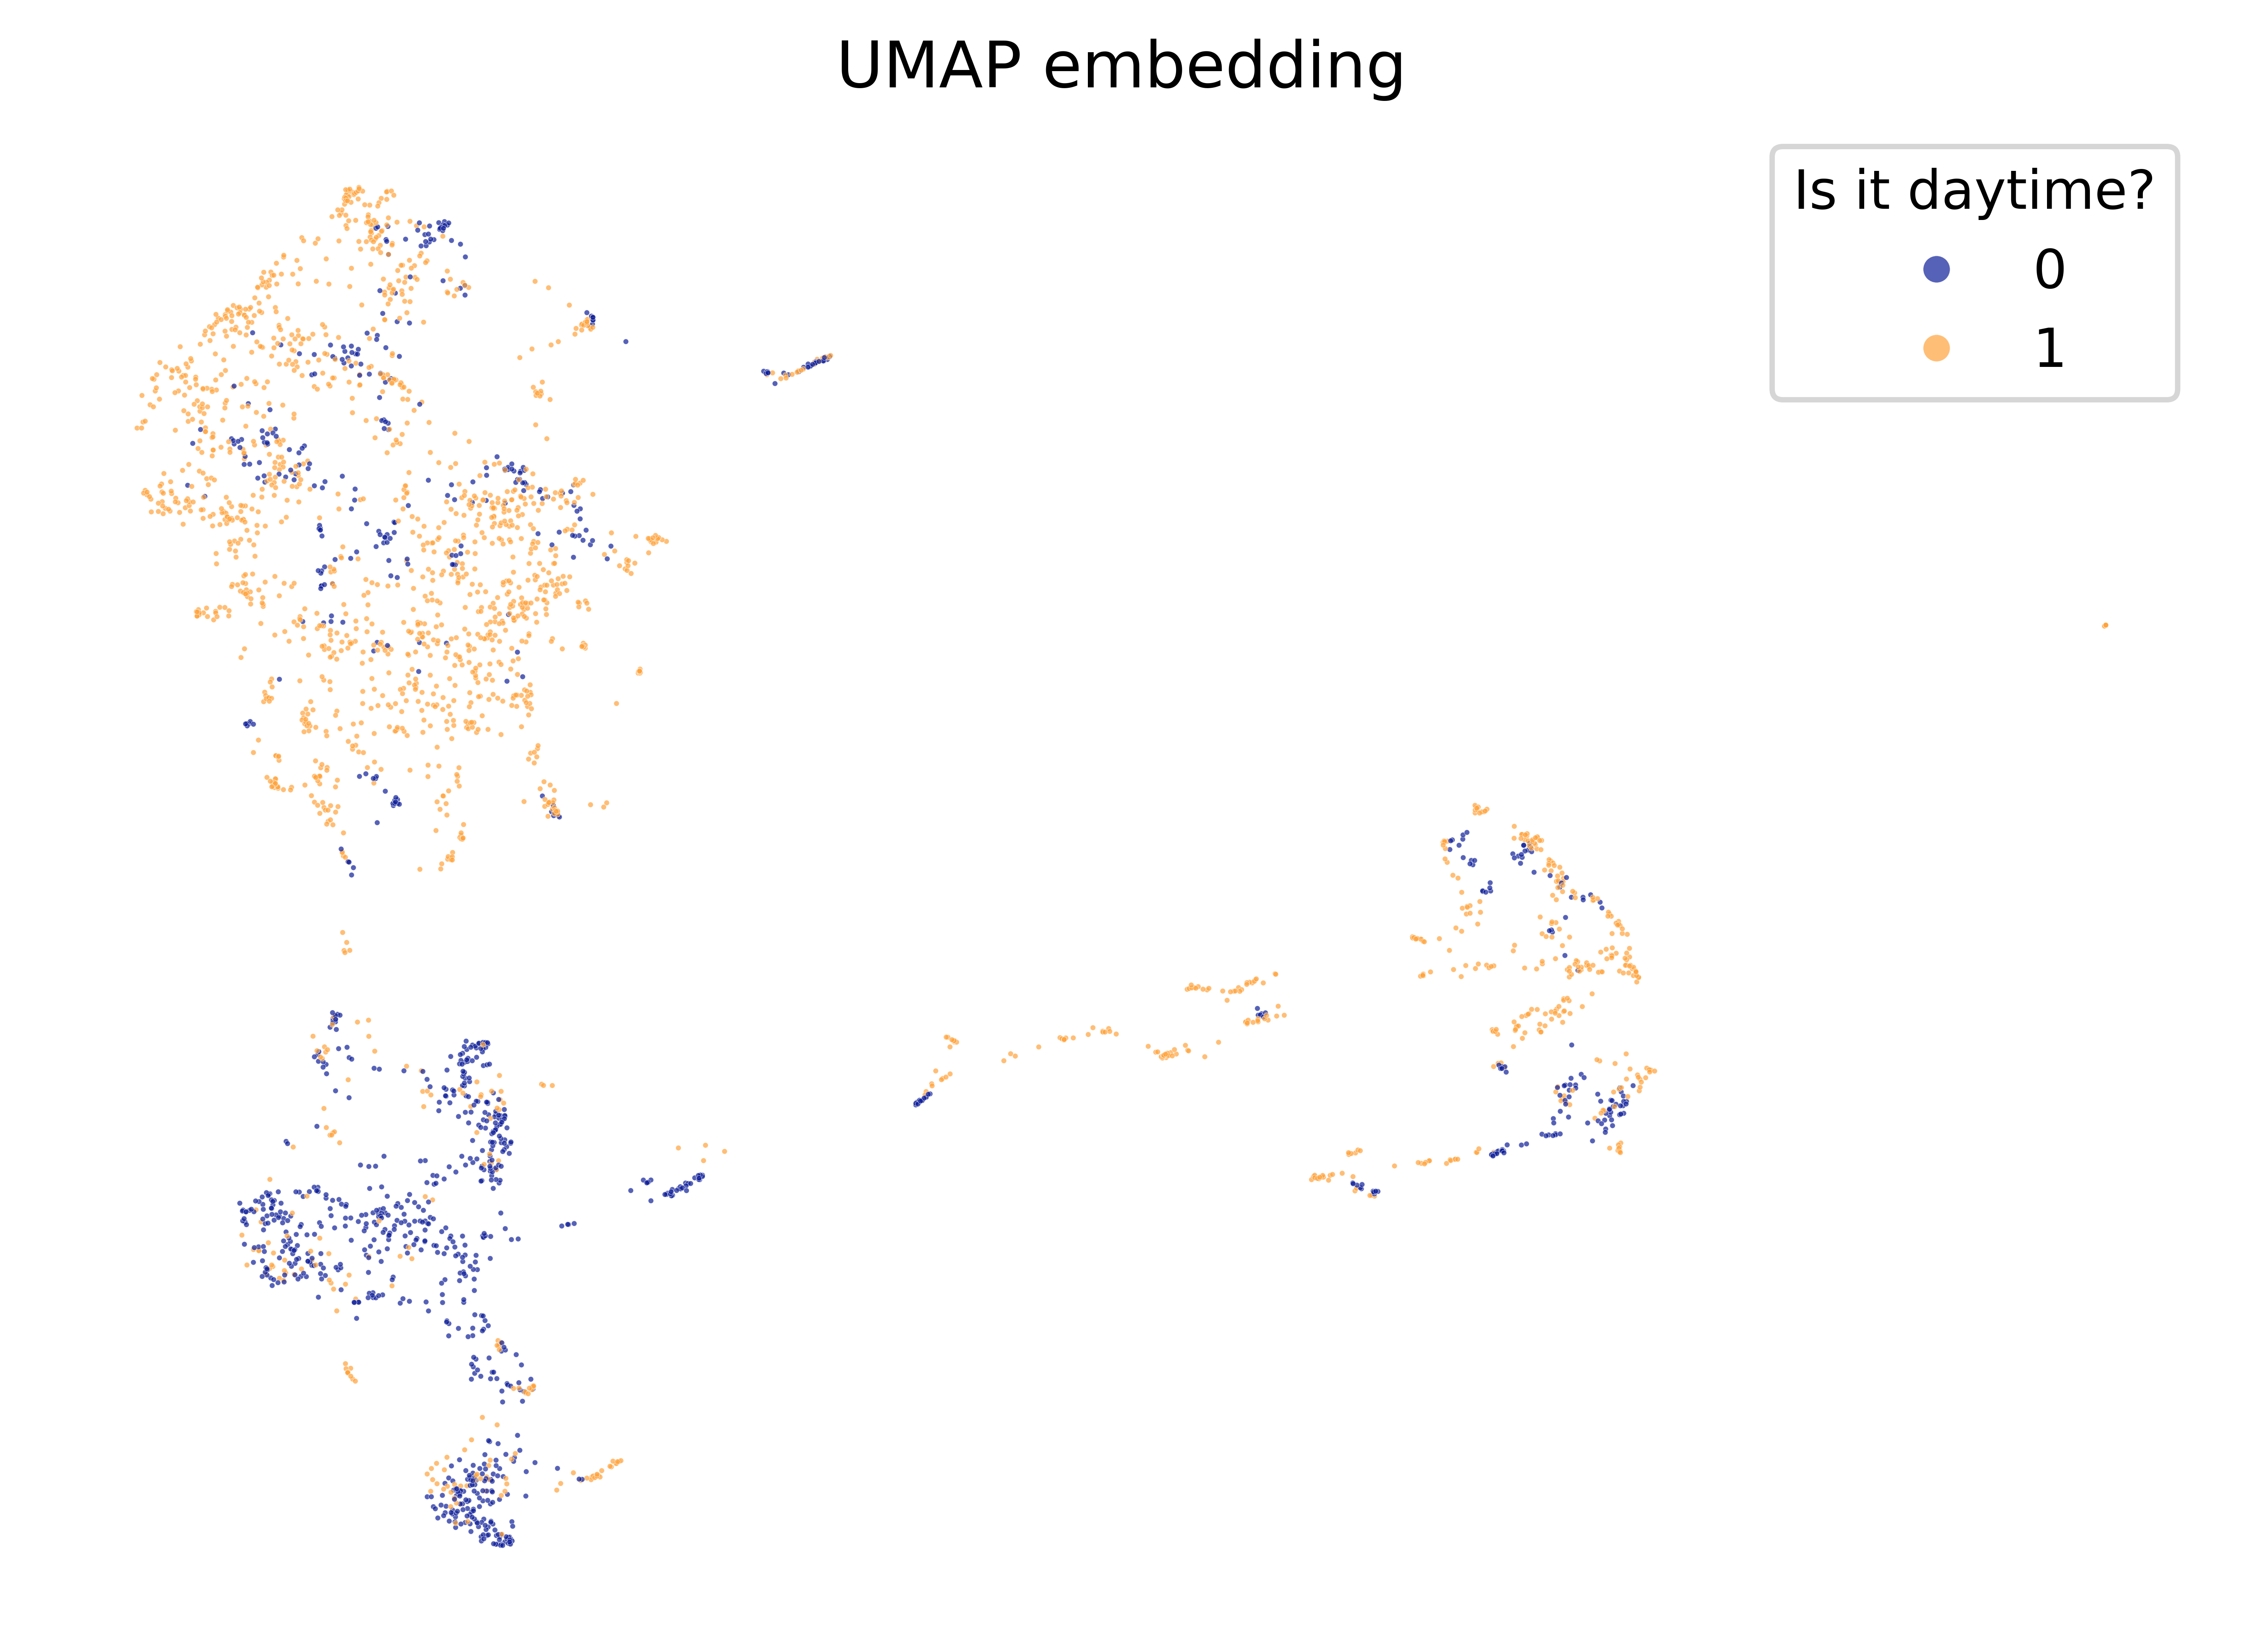
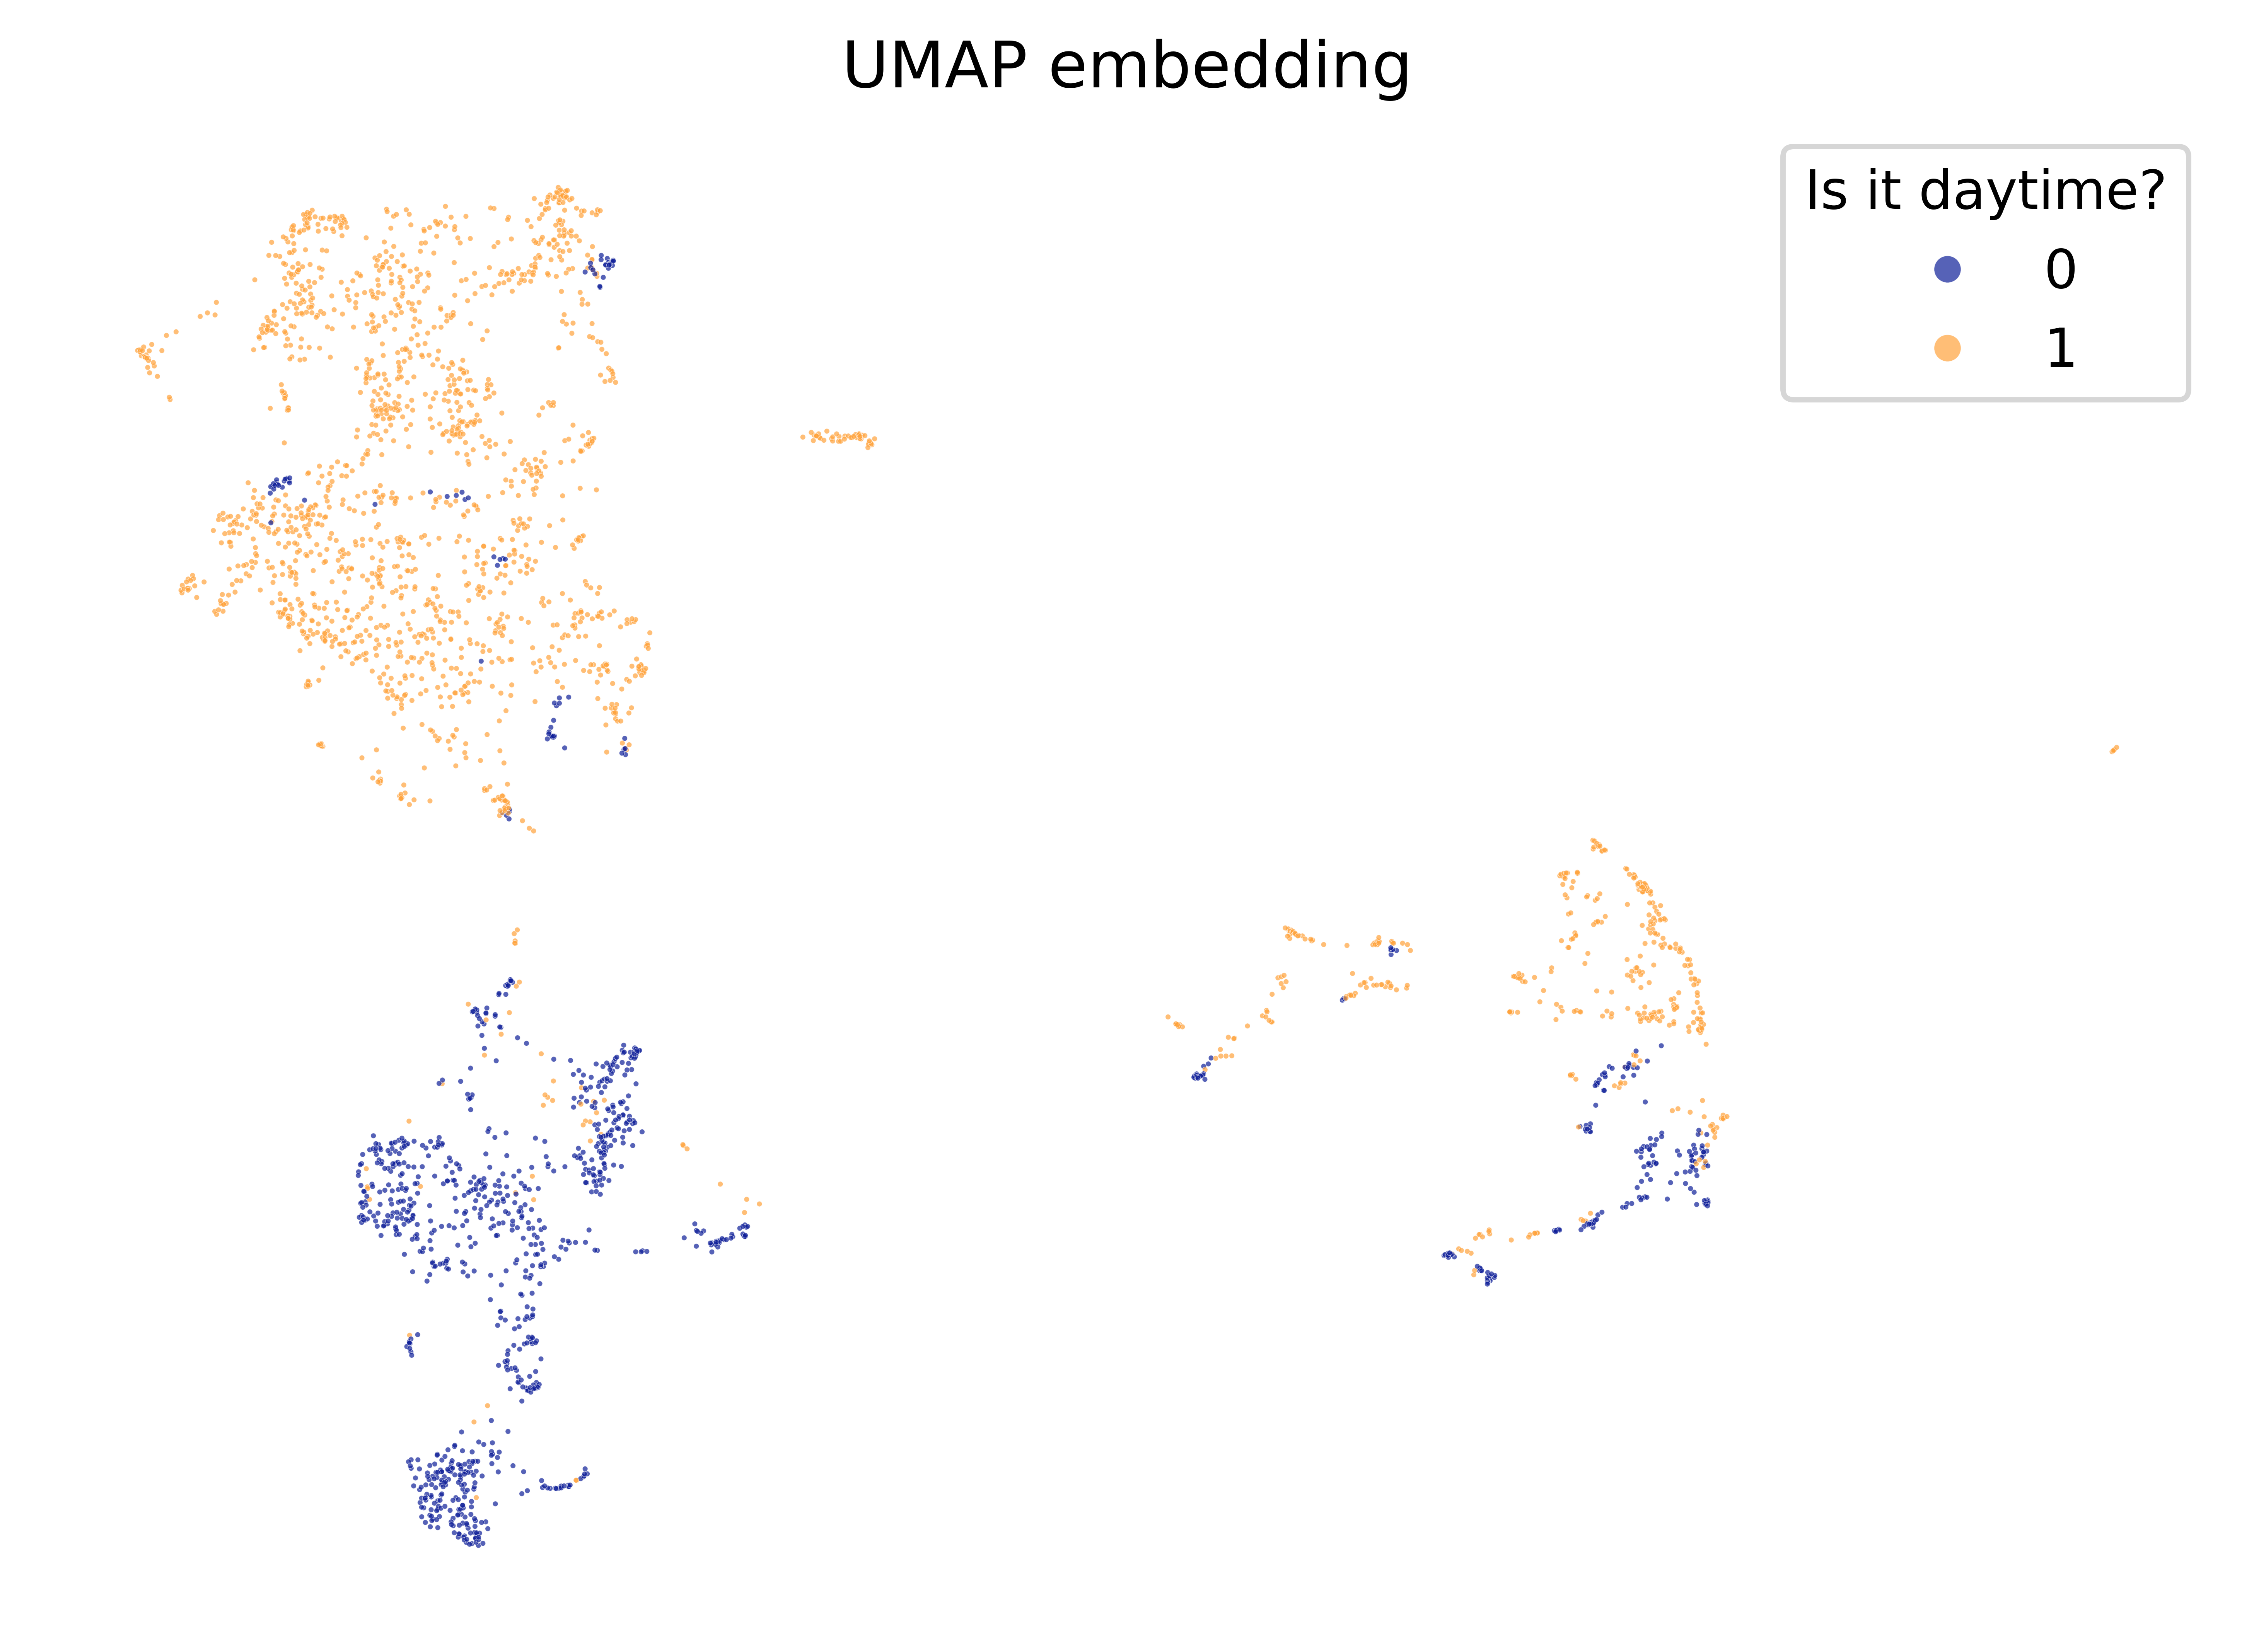
2h correction of UTC for the day/night data; plotting per day

diff --git a/mantis/RFC_UMAP_mantis.py b/mantis/RFC_UMAP_mantis.py
@@ -65,7 +65,7 @@ print(f"Validation Accuracy: {accuracy:.4f}")
 print(classification_report(y_valid, y_pred))
 
 #%% Predictions on new ORCHAMP embeddings
-data_ORC = pd.read_csv('/Users/laradiazgarcia/Desktop/Grenoble/mantis_home_orchamp_sound_2022_ARM_1520_1.csv', sep=";")
+data_ORC = pd.read_csv('/Users/laradiazgarcia/Desktop/Grenoble/mantis/mantis_home_orchamp_sound_2022_ARM_1520_1.csv', sep=";")
 X_ORC = data_ORC.iloc[:,2:514]
 
 # Make predictions on the ORCHAMP dataset
@@ -101,11 +101,11 @@ plt.show()
 # Extract the hhmmss part from the filename
 data_ORC['time'] = data_ORC['filename'].str.extract(r'_(\d{6})\.wav$')[0]
 u_df['time'] = data_ORC['time'].astype(int)
-# Apply the condition for daytime (060000 to 210000)
-u_df['is_daytime'] = ((u_df['time'] >= 60000) & (u_df['time'] <= 210000)).astype(int)
+# Apply the condition for daytime (060000 to 210000) but it is UTC and should be two hours later!
+u_df['is_daytime'] = ((u_df['time'] >= 40000) & (u_df['time'] <= 190000)).astype(int)
 # Drop the intermediate 'time' column if not needed
-u_df.drop(columns=['time'], inplace=True)
-u_df.columns = ['X', 'Y', 'is_aves', 'is_daytime']
+u_df.drop(columns=['date'], inplace=True)
+u_df.columns = ['X', 'Y', 'is_daytime']
 
 plt.figure()
 sns.scatterplot(data=u_df, x='X', y='Y', hue="is_daytime", palette=['#0f1f99', '#ffa33c'], alpha=0.7, s=1)
@@ -115,6 +115,20 @@ plt.axis('off')
 plt.legend(title='Is it daytime?', loc='upper right', markerscale=5)
 plt.savefig("mantis_umap_is_daytime.png", dpi=1000, bbox_inches='tight')
 plt.show()
+
+#%% UMAP for day of recording
+# Extract the hhmmss part from the filename
+u_df['date'] = u_df['filename'].str.split('_').str[1]
+
+plt.figure()
+sns.scatterplot(data=u_df, x='X', y='Y', hue="date", alpha=0.7, s=1)
+plt.title('UMAP embedding')
+plt.tight_layout()
+plt.axis('off')
+plt.legend(title='What day is it?', loc='upper right', markerscale=5)
+plt.savefig("mantis_umap_date.png", dpi=1000, bbox_inches='tight')
+plt.show()
+
 
 #%% What are my outliers? Copy the files from the ORCHAMP_SON
 df = u_df.loc[(u_df['X'] >= 5.5)]